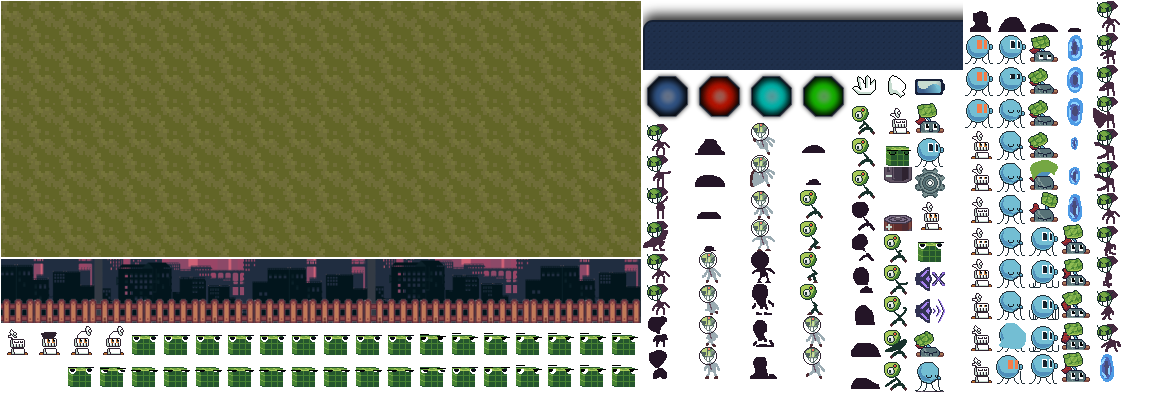
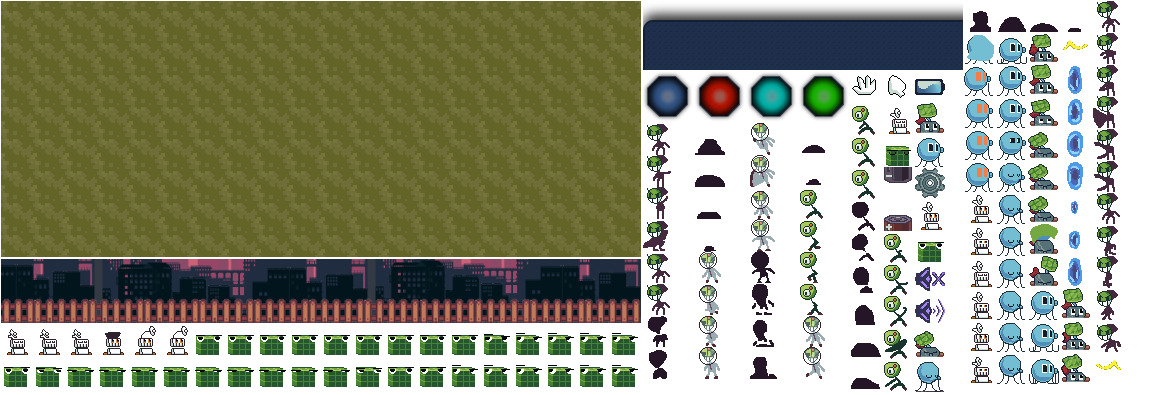
add electrocute spark effect

diff --git a/RvA/src/Game.cpp b/RvA/src/Game.cpp
@@ -397,7 +397,8 @@ void Game::registerEnemyTypes() {
 									  .idleAnimation = {sprite("b1_alien_walk"), 0.1f},
 									  .moveAnimation = {sprite("b1_alien_walk"), 0.1f},
 									  .attackAnimation = {sprite("b1_alien_attack"), 0.1f},
-									  .dyingAnimation = {sprite("b1_alien_death"), 0.1f, 1}});
+									  .dyingAnimation = {sprite("b1_alien_death"), 0.1f, 1},
+									  .sparkEffect = {sprite("spark"), 0.1f}});
 
 	m_pimpl->m_gameRegistry.addEnemy("B2",
 									 {.type = EnemyType::B2,
@@ -411,7 +412,8 @@ void Game::registerEnemyTypes() {
 									  .idleAnimation = {sprite("b2_alien_walk"), 0.1f},
 									  .moveAnimation = {sprite("b2_alien_walk"), 0.1f},
 									  .attackAnimation = {sprite("b2_alien_attack"), 0.1f},
-									  .dyingAnimation = {sprite("b2_alien_death"), 0.1f, 1}});
+									  .dyingAnimation = {sprite("b2_alien_death"), 0.1f, 1},
+									  .sparkEffect = {sprite("spark"), 0.1f, 1}});
 
 	m_pimpl->m_gameRegistry.addEnemy("Portal",
 									 {.type = EnemyType::Portal,
@@ -427,6 +429,7 @@ void Game::registerEnemyTypes() {
 									  .attackAnimation = {sprite("portal_alien_attack"), 0.1f},
 									  .dyingAnimation = {sprite("portal_alien_death"), 0.1f, 1},
 									  .summonAnimation = {sprite("portal_alien_summon"), 0.1f, 1},
+									  .sparkEffect = {sprite("spark"), 0.1f, 1},
 									  .behavior = PortalSpawnBehaviorInfo{
 										  .timeBeforeActing = 2.5f,
 										  .timeBeforeActingAgain = 1.f,
@@ -453,7 +456,8 @@ void Game::registerEnemyTypes() {
 									  .idleAnimation = {sprite("b1_alien_walk"), 0.1f},
 									  .moveAnimation = {sprite("b1_alien_walk"), 0.1f},
 									  .attackAnimation = {sprite("b1_alien_attack"), 0.1f},
-									  .dyingAnimation = {sprite("b1_alien_death"), 0.1f, 1}});
+									  .dyingAnimation = {sprite("b1_alien_death"), 0.1f, 1},
+									  .sparkEffect = {sprite("spark"), 0.1f, 1}});
 
 	m_pimpl->m_gameRegistry.addEnemy("B1TutorialTank",
 									 {.type = EnemyType::B1,
@@ -467,7 +471,8 @@ void Game::registerEnemyTypes() {
 									  .idleAnimation = {sprite("b1_alien_walk"), 0.1f},
 									  .moveAnimation = {sprite("b1_alien_walk"), 0.1f},
 									  .attackAnimation = {sprite("b1_alien_attack"), 0.1f},
-									  .dyingAnimation = {sprite("b1_alien_death"), 0.1f, 1}});
+									  .dyingAnimation = {sprite("b1_alien_death"), 0.1f, 1},
+									  .sparkEffect = {sprite("spark"), 0.1f, 1}});
 
 	m_pimpl->m_gameRegistry.addEnemy("B1TutorialTank2",
 									 {.type = EnemyType::B1,
@@ -481,7 +486,8 @@ void Game::registerEnemyTypes() {
 									  .idleAnimation = {sprite("b1_alien_walk"), 0.1f},
 									  .moveAnimation = {sprite("b1_alien_walk"), 0.1f},
 									  .attackAnimation = {sprite("b1_alien_attack"), 0.1f},
-									  .dyingAnimation = {sprite("b1_alien_death"), 0.1f, 1}});
+									  .dyingAnimation = {sprite("b1_alien_death"), 0.1f, 1},
+									  .sparkEffect = {sprite("spark"), 0.1f, 1}});
 
 	m_pimpl->m_gameRegistry.addEnemy("B1TutorialFast",
 									 {.type = EnemyType::B1,
@@ -495,7 +501,8 @@ void Game::registerEnemyTypes() {
 									  .idleAnimation = {sprite("b1_alien_walk"), 0.1f},
 									  .moveAnimation = {sprite("b1_alien_walk"), 0.1f},
 									  .attackAnimation = {sprite("b1_alien_attack"), 0.1f},
-									  .dyingAnimation = {sprite("b1_alien_death"), 0.1f, 1}});
+									  .dyingAnimation = {sprite("b1_alien_death"), 0.1f, 1},
+									  .sparkEffect = {sprite("spark"), 0.1f, 1}});
 }
 
 void Game::registerDropTypes() {

diff --git a/RvA/src/enemy/Enemy.cpp b/RvA/src/enemy/Enemy.cpp
@@ -10,6 +10,8 @@ Enemy::Enemy(Vector2 position, const EnemyTypeInfo* typeInfo, int row) : m_posit
 	m_hp = typeInfo->maxHp;
 	m_attackTime = typeInfo->attackTime;
 	setAnimation(m_typeInfo->idleAnimation);
+	
+	m_sparkEffect = Animation::createAnimation(m_typeInfo->sparkEffect);
 	setupBehavior(m_typeInfo->behavior);
 	setState(EnemyState::Idle);
 }
@@ -53,6 +55,10 @@ void Enemy::applyDamage(const Damage& damage) {
 		.onComplete([this]() { m_tint = WHITE; });
 }
 
+void Enemy::setSparkEffect(float duration) {
+	m_sparkEffectTimeRemain = duration;
+}
+
 void Enemy::setPosition(Vector2 position) {
 	m_position = position;
 }
@@ -71,6 +77,10 @@ GameAction Enemy::update(float dt) {
 
 	m_animation.update(dt);
 	m_damageTakenAnimation.update(dt);
+	if (m_sparkEffectTimeRemain > 0.f) {
+		m_sparkEffectTimeRemain -= dt;
+		m_sparkEffect.update(dt);
+	}
 
 	return action;
 }
@@ -78,6 +88,11 @@ GameAction Enemy::update(float dt) {
 void Enemy::draw(Atlas& atlas) {
 	DrawEllipse(m_position.x + CELL_SIZE * 0.5f, m_position.y + CELL_SIZE - 1, 12, 4, Fade(BLACK, 0.1f));
 	atlas.drawSprite(m_animation.getSpriteInfo(), m_position, m_animation.getCurrentFrame(), Flip::None, m_tint);
+	if (m_sparkEffectTimeRemain > 0.f) {
+		atlas.drawRotatedSprite(m_sparkEffect.getSpriteInfo(), {m_position.x - 5, m_position.y - 25}, m_sparkEffect.getCurrentFrame(), Flip::None, WHITE, 30.f);
+		atlas.drawRotatedSprite(m_sparkEffect.getSpriteInfo(), {m_position.x - 10, m_position.y - 0}, m_sparkEffect.getCurrentFrame(), Flip::None, WHITE, 0.f);
+		atlas.drawRotatedSprite(m_sparkEffect.getSpriteInfo(), {m_position.x - 15, m_position.y + 25}, m_sparkEffect.getCurrentFrame(), Flip::None, WHITE, -30.f);
+	}
 }
 
 const EnemyTypeInfo* Enemy::getInfo() const {

diff --git a/RvA/src/atlas/Atlas.cpp b/RvA/src/atlas/Atlas.cpp
@@ -22,6 +22,21 @@ void Atlas::drawSprite(const SpriteInfo* spriteInfo, const Vector2& pos, int cur
 	drawSprite(spriteInfo, pos, {float(spriteInfo->frames[currentFrame].width), float(spriteInfo->frames[currentFrame].height)}, currentFrame, flip, tint);
 }
 
+void Atlas::drawRotatedSprite(const SpriteInfo* spriteInfo, const Vector2& pos, int currentFrame, Flip flip, Color tint, float rotation) {
+	drawRotatedSprite(spriteInfo, pos, {float(spriteInfo->frames[currentFrame].width), float(spriteInfo->frames[currentFrame].height)}, currentFrame, flip, tint, rotation);
+}
+
+void Atlas::drawRotatedSprite(const SpriteInfo* spriteInfo, const Vector2& pos, const Vector2& size, int currentFrame, Flip flip, Color tint, float rotation) {
+	texture_atlas_frame_t* frameInfo = &spriteInfo->frames[currentFrame];
+
+	Rectangle src = {float(frameInfo->x), float(frameInfo->y), float(frameInfo->width), float(frameInfo->height)};
+
+	src.width = frameInfo->width * (1 - 2.f * ((flip & Flip::Horizontal) != 0));
+	src.height = frameInfo->height * (1 - 2.f * ((flip & Flip::Vertical) != 0));
+
+	DrawTexturePro(m_texture, src, {pos.x, pos.y, size.x, size.y}, {0.f, 0.f}, rotation, tint);
+}
+
 void Atlas::drawSprite(const SpriteInfo* spriteInfo, const Vector2& pos, const Vector2& size, int currentFrame, Flip flip, Color tint) {
 	texture_atlas_frame_t* frameInfo = &spriteInfo->frames[currentFrame];
 

diff --git a/RvA/src/atlas/Atlas.h b/RvA/src/atlas/Atlas.h
@@ -21,6 +21,9 @@ public:
 	void load(const char* textureName);
 	void drawSprite(const SpriteInfo* spriteInfo, const Vector2& pos, int currentFrame = 0, Flip flip = Flip::None, Color tint = WHITE);
 	void drawSprite(const SpriteInfo* spriteInfo, const Vector2& pos, const Vector2& size, int currentFrame = 0, Flip flip = Flip::None, Color tint = WHITE);
+	void drawRotatedSprite(const SpriteInfo* spriteInfo, const Vector2& pos, int currentFrame, Flip flip, Color tint, float rotation);
+	void drawRotatedSprite(const SpriteInfo* spriteInfo, const Vector2& pos, const Vector2& size, int currentFrame, Flip flip, Color tint, float rotation);
+
 
 	texture_atlas_t* getTextureAtlas() {
 		return m_ta;

diff --git a/RvA/src/enemy/Enemy.h b/RvA/src/enemy/Enemy.h
@@ -32,6 +32,7 @@ public:
 	void draw(Atlas& atlas);
 
 	void applyDamage(const Damage& damage);
+	void setSparkEffect(float duration);
 
 	void setPosition(Vector2 position);
 
@@ -88,8 +89,10 @@ private:
 	Interpolation<> m_damageTakenAnimation;
 	Color m_tint{WHITE};
 	Damage m_latestDamageApplied;
+	float m_sparkEffectTimeRemain{0.f};
 
 	Animation m_animation;
+	Animation m_sparkEffect;
 	EnemyState m_state;
 	const EnemyTypeInfo* m_typeInfo{};
 	ColliderHandle m_colliderHandle{};

diff --git a/RvA/src/Session.cpp b/RvA/src/Session.cpp
@@ -336,6 +336,7 @@ void Session::manageBaseWallEnemyCollision(const Collision& collision) {
 	case CollisionEvent::Ongoing:
 		if (enemy->getState() == EnemyState::ReadyToAttack) {
 			m_levelData->batteryCharge -= static_cast<int>(enemy->getInfo()->baseWallDamage);
+			enemy->setSparkEffect(1.f);
 			enemy->applyDamage({50, false, DamageSource::BaseWall});
 			enemy->setState(EnemyState::PrepareToAttack);
 		} else if (enemy->getState() != EnemyState::PrepareToAttack) {

diff --git a/RvA/src/enemy/EnemyTypeRegistry.h b/RvA/src/enemy/EnemyTypeRegistry.h
@@ -49,6 +49,7 @@ struct EnemyTypeInfo {
 	AnimationData attackAnimation;
 	AnimationData dyingAnimation;
 	AnimationData summonAnimation;
+	AnimationData sparkEffect;
 	EnemyBehaviorInfo behavior{}; // right now we consider only one potential behaviour per enemy
 };
 
